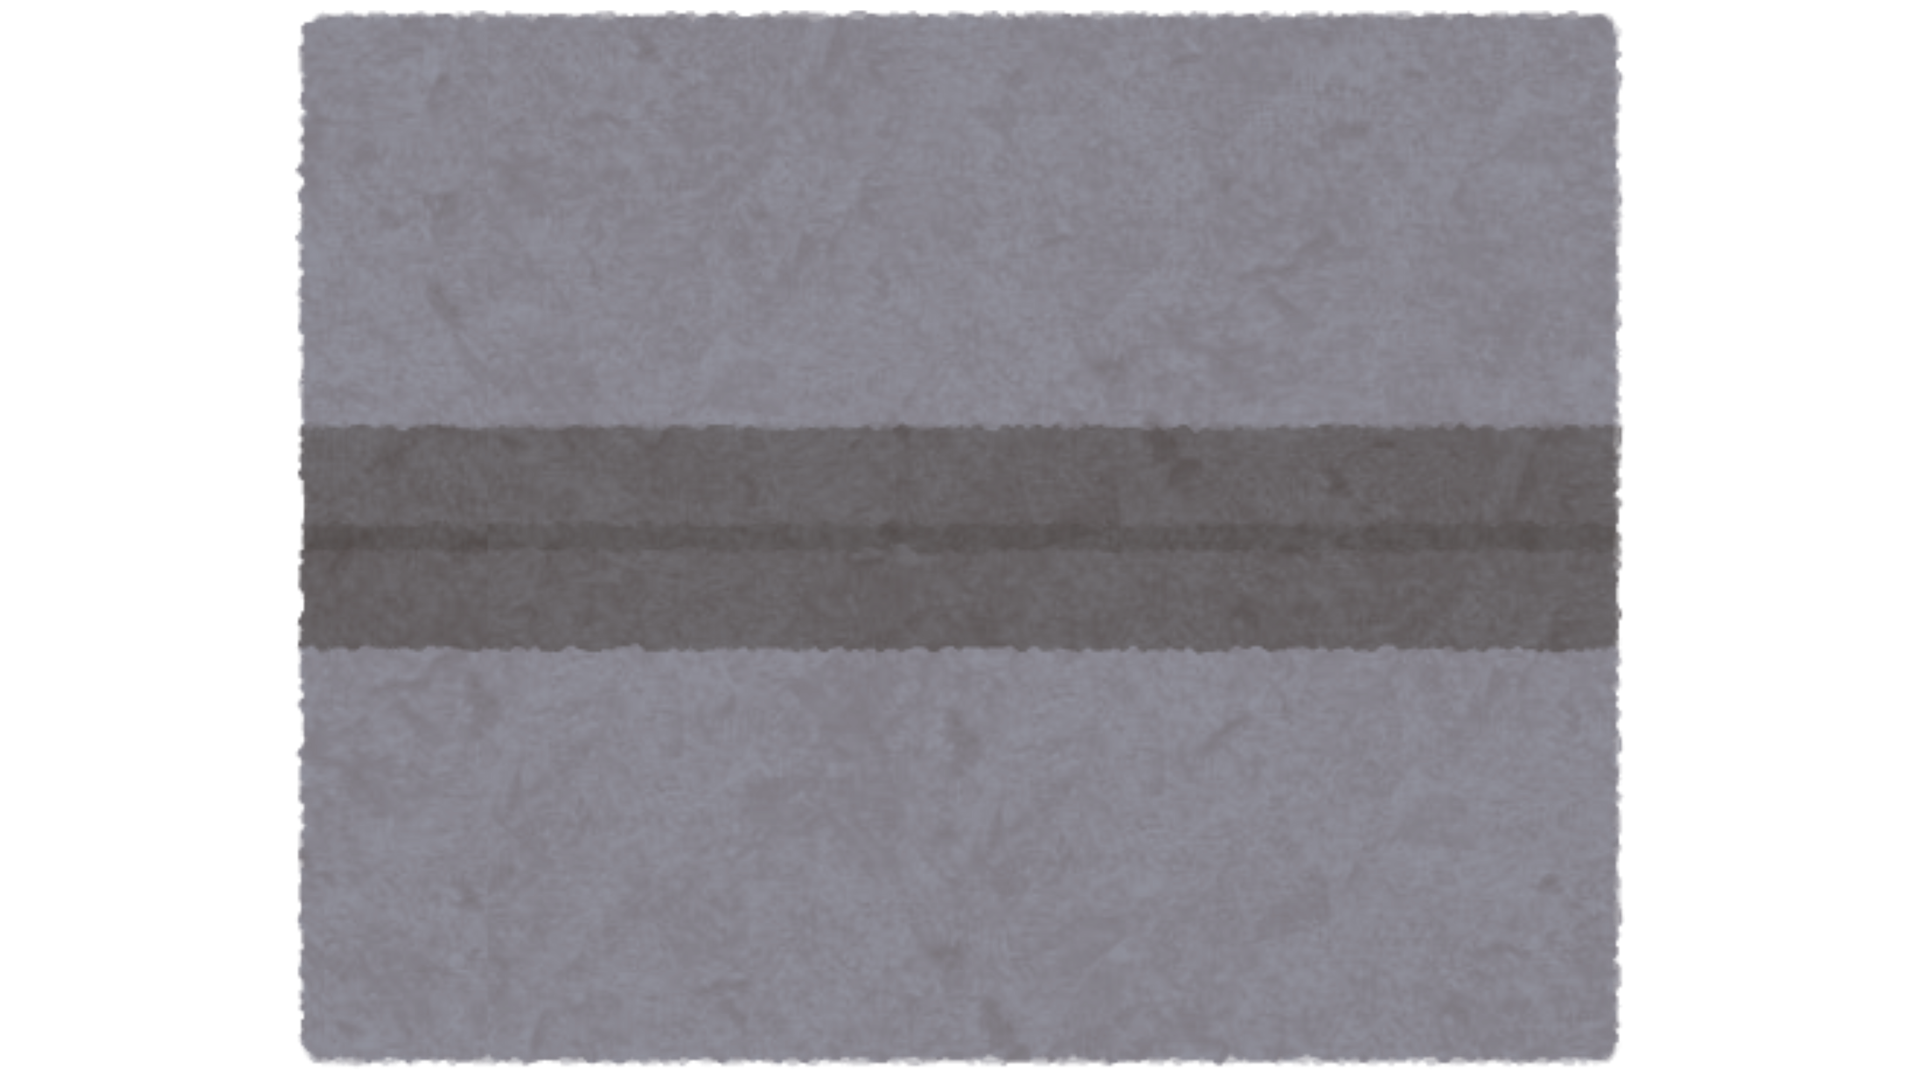
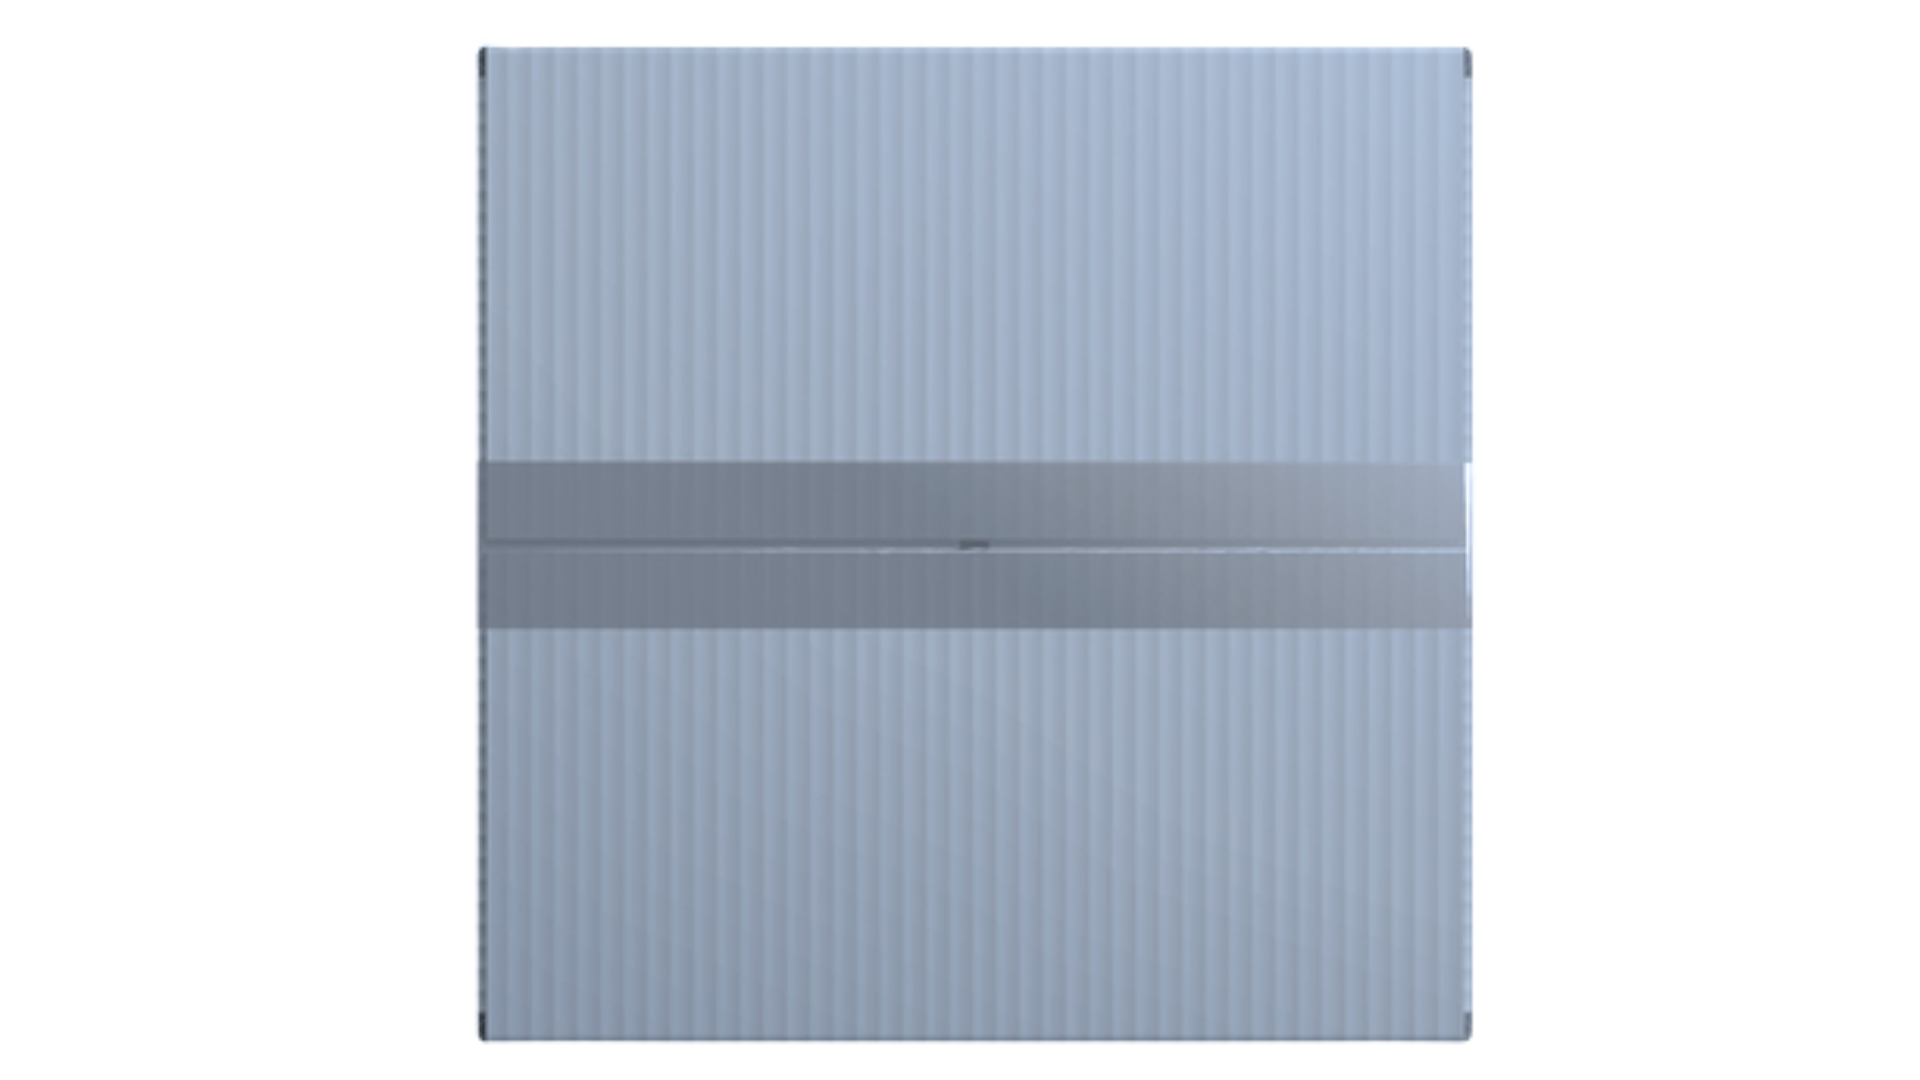
package cutting open

diff --git a/project/level5-script.js b/project/level5-script.js
@@ -8,12 +8,19 @@ let LEVEL5 = {
     close: document.getElementsByClassName("close5"),
     imgSlide: document.getElementById("imgSlide"),
     count: 1,
+    kitchen: document.getElementById("swapKitchen5"),
+    package: document.getElementById("package"),
+    livingRoom: document.getElementById("swapLivingRoom5"),
+    noteBook: document.getElementById("notebook5"),
+    cutOpen: false,
 }
 
 function restartLevel5() {
     LEVEL.levelIntro[4].style.display = "block";
     LEVEL5.readIntro = false;
     LEVEL5.levelScreen.style.backgroundImage = "url('img/introBackground.jpg')";
+    leftDot = { x: 265, y: 305, color: "#7a818a", connected: false };
+    rightDot = { x: 810, y: 305, color: "#7a818a", connected: false };
     level5();
 }
 
@@ -25,6 +32,9 @@ function level5() {
         LEVEL5.letter.style.display = "block"
         LEVEL5.close[0].style.display = "none";
         LEVEL5.close[1].style.display = "none";
+        LEVEL5.kitchen.style.display = "block";
+        LEVEL5.livingRoom.style.display = "none";
+        LEVEL5.package.style.display = "none";
 
         if (DIFFICULTY.mode == "Easy") {
              LEVEL5.hints = "Hint 1: <br> -  <br> <br> Hint 2: <br> - "
@@ -93,3 +103,110 @@ function left() {
     }
     LEVEL5.imgSlide.innerHTML = `<img src="img/Level5/${LEVEL5.count}.png" alt="img">`
 }
+
+function kitchen5() {
+    LEVEL5.levelScreen.style.backgroundImage = "url('img/Level5/kitchenBackground.jpg')";
+    LEVEL5.camera.style.display = "none";
+    LEVEL5.letter.style.display = "none";
+    LEVEL5.close[0].style.display = "none";
+    LEVEL5.close[1].style.display = "none";
+    LEVEL5.package.style.display = "block";
+    LEVEL5.livingRoom.style.display = "block"
+    LEVEL5.kitchen.style.display = "none";
+    LEVEL5.close[3].style.display = "none";
+
+}
+
+function packageRead() {
+    if(!LEVEL5.cutOpen) {
+        LEVEL5.package.style.display = "none";
+        LEVEL5.levelScreen.style.backgroundImage = "url('img/Level5/tileBackground.png')";
+        LEVEL5.close[2].style.display = "block";
+        draw3();
+    }
+    else {
+        opened();
+    }
+}
+
+
+let canvas3 = document.getElementById("cutCanvas");
+let ctx3 = canvas3.getContext("2d");
+
+let leftDot = { x: 265, y: 305, color: "#7a818a", connected: false };
+let rightDot = { x: 810, y: 305, color: "#7a818a", connected: false };
+
+let dragging2 = false;
+let startDot = null;
+let currentPos2 = { x: 0, y: 0 };
+
+canvas3.addEventListener("mousedown", (e) => {
+  let { offsetX, offsetY } = e;
+  if (Math.hypot(offsetX - leftDot.x, offsetY - leftDot.y) < 15 && !leftDot.connected) {
+    dragging2 = true;
+    startDot = leftDot;
+    currentPos2 = { x: offsetX, y: offsetY };
+  }
+});
+
+canvas3.addEventListener("mousemove", (e) => {
+  if (dragging2) {
+    currentPos2 = { x: e.offsetX, y: e.offsetY };
+    draw3();
+  }
+});
+
+canvas3.addEventListener("mouseup", (e) => {
+  if (dragging2) {
+    if (Math.hypot(e.offsetX - rightDot.x, e.offsetY - rightDot.y) < 15 && !rightDot.connected) {
+      leftDot.connected = true;
+      rightDot.connected = true;
+      opened();
+    }
+  }
+  dragging2 = false;
+  startDot = null;
+  draw3();
+});
+
+function drawDot(dot) {
+  ctx3.beginPath();
+  ctx3.arc(dot.x, dot.y, 8, 0, Math.PI * 2);
+  ctx3.fillStyle = dot.color;
+  ctx3.fill();
+  ctx3.strokeStyle = "#7a818a";
+  ctx3.stroke();
+}
+
+function drawLine2(p1, p2, color = "#7a818a") {
+  ctx3.beginPath();
+  ctx3.moveTo(p1.x, p1.y);
+  ctx3.lineTo(p2.x, p2.y);
+  ctx3.strokeStyle = color;
+  ctx3.lineWidth = 4;
+  ctx3.stroke();
+}
+
+function draw3() {
+  ctx3.clearRect(0, 0, canvas3.width, canvas3.height);
+  drawDot(leftDot);
+  drawDot(rightDot);
+
+  if (leftDot.connected && rightDot.connected) {
+    drawLine2(leftDot, rightDot, "#7a818a");
+  }
+
+  if (dragging2 && startDot) {
+    drawLine2(startDot, currentPos2, "#7a818a");
+  }
+}
+
+
+function opened() {
+    LEVEL5.close[2].style.display = "none";
+    LEVEL5.close[3].style.display = "flex";
+    LEVEL5.noteBook.style.display = "block";
+    LEVEL5.levelScreen.style.backgroundImage = "url('img/Level5/packageBackground.png')";
+    LEVEL5.cutOpen = true;
+}
+

diff --git a/project/style.css b/project/style.css
@@ -1504,3 +1504,48 @@ h2 {
     align-items: center;
     justify-content: center;
 }
+
+#swapKitchen5, #swapLivingRoom5 {
+    display: none;
+    position: absolute;
+    bottom: 3vh;
+    left: 1vw;
+    font-size: 1.4em;
+    user-select: none;
+    cursor: pointer;
+    transition: color 1s;
+}
+
+#swapKitchen5:hover, #swapLivingRoom5:hover {
+    color: #215093;
+}
+
+#package {
+    background-image: url(img/Level5/package.png);
+    display: none;
+    background-repeat: no-repeat;
+    background-size: 100%;
+    width: 10vw;
+    height: 12vh;
+    position: absolute;
+    left: 38vw;
+    top: 75vh;
+}
+
+#package:hover {
+    background-image: url(img/Level5/packageBorder.png);
+}
+
+#packageOpen {
+    width: 100%;
+}
+
+#cutCanvas {
+    background-image: url(img/Level5/packageOpen.png);
+    background-size: cover;
+}
+
+#notebook5 {
+    width: 75%;
+    margin-top: 4%;
+}

diff --git a/project/index.html b/project/index.html
@@ -299,6 +299,16 @@
                     <img id="letter5Img" src="img/Level5/letterOpen.png" alt="img">
                     <p onclick="level5()">X</p>
                 </div>
+                <div id="swapKitchen5" onclick="kitchen5()">go to kitchen</div>
+                <div id="package" onclick="packageRead()"></div>
+                <div class="close5">
+                    <canvas id="cutCanvas" width="1000" height="600"></canvas>
+                </div>
+                <div class="close5">
+                    <img id="notebook5" src="img/Level5/noteBook.png" alt="img">
+                    <p onclick="kitchen5()">X</p>
+                </div>
+                <div id="swapLivingRoom5" onclick="level5()"> go to living room</div>
         </div>
 
         <div id="endpage">
